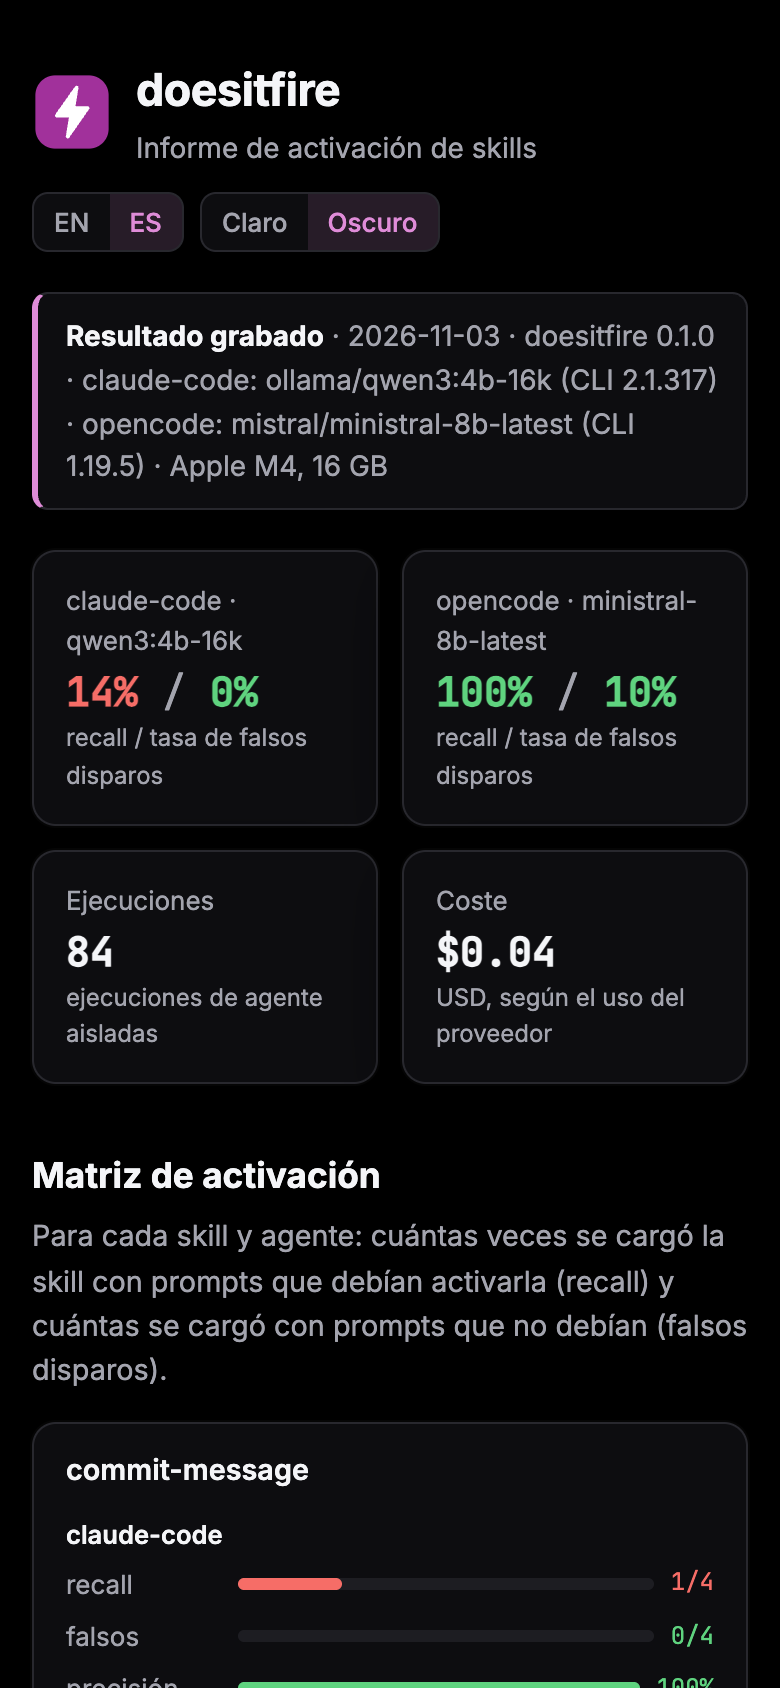
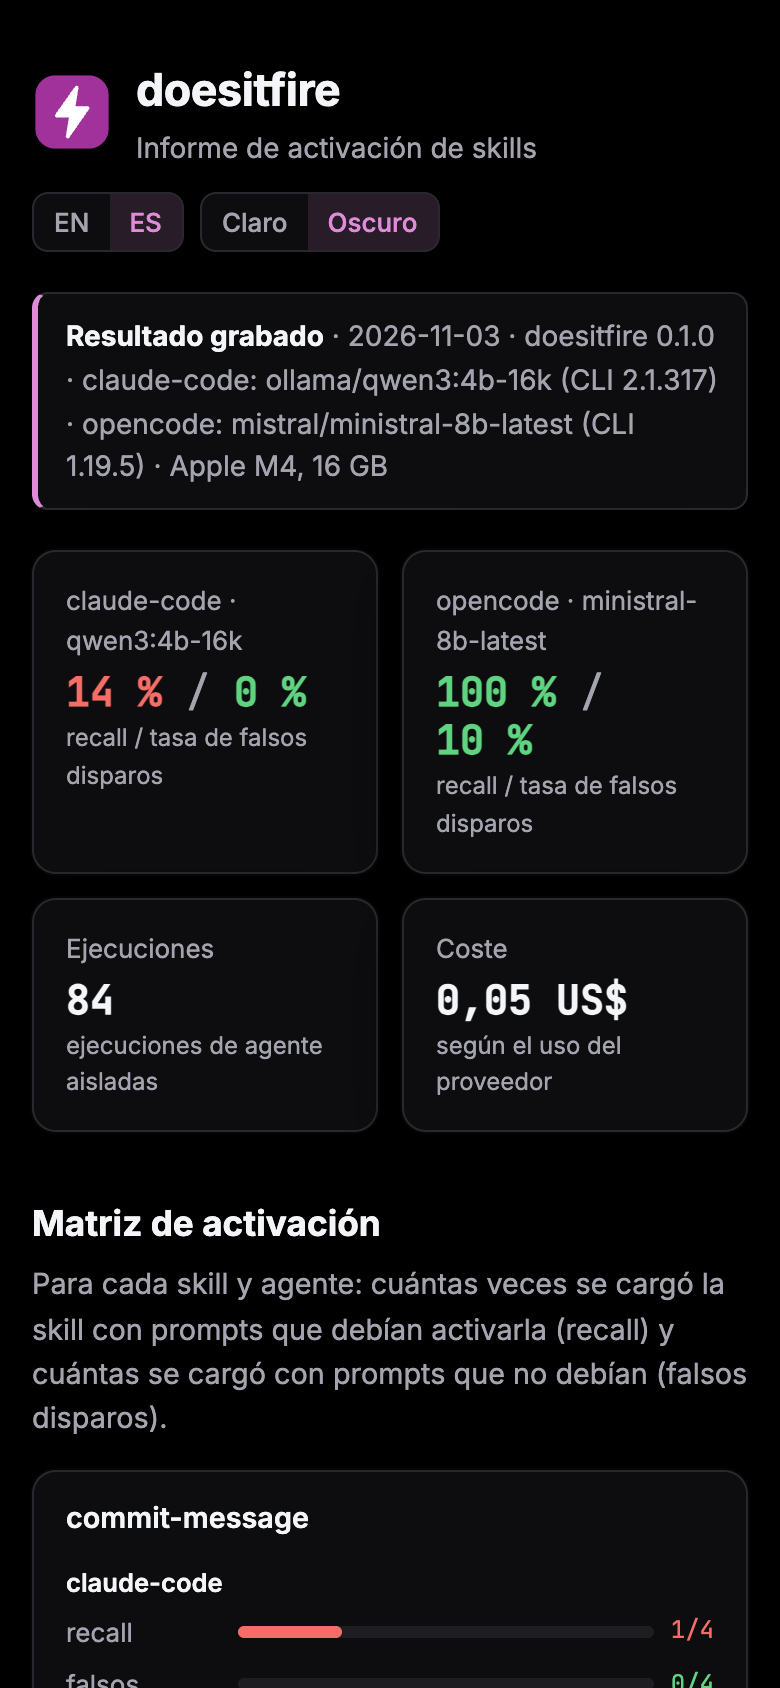
release: 0.1.1 locale-aware number formatting, verified Mistral price and recomputed demo cost

diff --git a/src/doesitfire/templates/report.html b/src/doesitfire/templates/report.html
@@ -162,7 +162,7 @@ footer { margin-top: 40px; color: var(--muted); font-size: .8rem; }
       kFalse: "False fires", kFalseHint: "should-not prompts that loaded it",
       kPrecision: "Precision", kPrecisionHint: "loads that were wanted",
       kAgentHint: "recall / false-fire rate", kRuns: "Runs", kRunsHint: "sandboxed agent runs",
-      kCost: "Cost", kCostHint: "USD, from provider usage",
+      kCost: "Cost", kCostHint: "from provider usage",
       matrixTitle: "Activation matrix",
       matrixLead: "For each skill and agent: how often the skill loaded on prompts that should trigger it (recall), and how often it loaded on prompts that should not (false fires).",
       skill: "Skill", recall: "recall", falsef: "false fires", precision: "precision", errors: "runs with errors",
@@ -179,7 +179,9 @@ footer { margin-top: 40px; color: var(--muted); font-size: .8rem; }
         "A small local model does not behave like a frontier model. These numbers describe this run, with these models; run <code>doesitfire run</code> with the models you actually use."
       ],
       footer: "Generated by doesitfire {version}. Started {start}, {dur} s.",
-      blocked: "Egress attempts blocked by the sandbox proxy: {n}."
+      blocked: "Egress attempts blocked by the sandbox proxy: {n}.",
+      price: "Cost for {agent} ({model}): {input} per million input tokens and {output} per million output tokens, checked on {checked}.",
+      source: "Source"
     },
     es: {
       subtitle: "Informe de activación de skills", light: "Claro", dark: "Oscuro",
@@ -188,7 +190,7 @@ footer { margin-top: 40px; color: var(--muted); font-size: .8rem; }
       kFalse: "Falsos disparos", kFalseHint: "prompts que no debían y la activaron",
       kPrecision: "Precisión", kPrecisionHint: "activaciones que tocaban",
       kAgentHint: "recall / tasa de falsos disparos", kRuns: "Ejecuciones", kRunsHint: "ejecuciones de agente aisladas",
-      kCost: "Coste", kCostHint: "USD, según el uso del proveedor",
+      kCost: "Coste", kCostHint: "según el uso del proveedor",
       matrixTitle: "Matriz de activación",
       matrixLead: "Para cada skill y agente: cuántas veces se cargó la skill con prompts que debían activarla (recall) y cuántas se cargó con prompts que no debían (falsos disparos).",
       skill: "Skill", recall: "recall", falsef: "falsos", precision: "precisión", errors: "ejecuciones con error",
@@ -205,7 +207,9 @@ footer { margin-top: 40px; color: var(--muted); font-size: .8rem; }
         "Un modelo local pequeño no se comporta como un modelo de frontera. Estas cifras describen esta ejecución con estos modelos; lanza <code>doesitfire run</code> con los modelos que uses de verdad."
       ],
       footer: "Generado por doesitfire {version}. Inicio {start}, {dur} s.",
-      blocked: "Intentos de salida bloqueados por el proxy del sandbox: {n}."
+      blocked: "Intentos de salida bloqueados por el proxy del sandbox: {n}.",
+      price: "Coste de {agent} ({model}): {input} por millón de tokens de entrada y {output} por millón de salida, comprobado el {checked}.",
+      source: "Fuente"
     }
   };
   var lang = "en";
@@ -213,7 +217,10 @@ footer { margin-top: 40px; color: var(--muted); font-size: .8rem; }
   if (lang !== "en" && lang !== "es") lang = (navigator.language || "en").toLowerCase().indexOf("es") === 0 ? "es" : "en";
 
   function esc(s) { return String(s == null ? "" : s).replace(/[&<>"']/g, function (c) { return {"&": "&amp;", "<": "&lt;", ">": "&gt;", '"': "&quot;", "'": "&#39;"}[c]; }); }
-  function pct(v) { return v == null ? "n/a" : Math.round(v * 100) + "%"; }
+  function loc() { return lang === "es" ? "es-ES" : "en-US"; }
+  function pct(v) { return v == null ? "n/a" : new Intl.NumberFormat(loc(), {style: "percent", maximumFractionDigits: 0}).format(v); }
+  function num(v) { return new Intl.NumberFormat(loc()).format(v); }
+  function usd(v) { return new Intl.NumberFormat(loc(), {style: "currency", currency: "USD", minimumFractionDigits: 2, maximumFractionDigits: v > 0 && v < 0.01 ? 4 : 2}).format(v); }
   function fmt(s, o) { return s.replace(/\{(\w+)\}/g, function (_, k) { return o[k] == null ? "" : o[k]; }); }
   function rcls(v) { return v == null ? "na" : v >= 0.8 ? "ok" : v >= 0.5 ? "warn" : "err"; }
   function fcls(v) { return v == null ? "na" : v <= 0.1 ? "ok" : v <= 0.3 ? "warn" : "err"; }
@@ -242,8 +249,8 @@ footer { margin-top: 40px; color: var(--muted); font-size: .8rem; }
         ' <span class="sep">/</span> <span class="c-' + fcls(c.false_fire_rate) + '">' + esc(pct(c.false_fire_rate)) + '</span></div>' +
         '<div class="hint">' + esc(t.kAgentHint) + '</div></div>';
     });
-    cards.push('<div class="kpi"><div class="label">' + esc(t.kRuns) + '</div><div class="value">' + D.runs + '</div><div class="hint">' + esc(t.kRunsHint) + '</div></div>');
-    cards.push('<div class="kpi"><div class="label">' + esc(t.kCost) + '</div><div class="value">$' + (M.cost_usd || 0).toFixed(2) + '</div><div class="hint">' + esc(t.kCostHint) + '</div></div>');
+    cards.push('<div class="kpi"><div class="label">' + esc(t.kRuns) + '</div><div class="value">' + esc(num(D.runs)) + '</div><div class="hint">' + esc(t.kRunsHint) + '</div></div>');
+    cards.push('<div class="kpi"><div class="label">' + esc(t.kCost) + '</div><div class="value">' + esc(usd(M.cost_usd || 0)) + '</div><div class="hint">' + esc(t.kCostHint) + '</div></div>');
     var kp = document.getElementById("kpis");
     kp.style.gridTemplateColumns = "repeat(" + Math.min(cards.length, 5) + ", minmax(0, 1fr))";
     kp.innerHTML = cards.join("");
@@ -298,9 +305,13 @@ footer { margin-top: 40px; color: var(--muted); font-size: .8rem; }
 
     var reps = M.agents.map(function (a) { return a.name + " " + (a.repeats || M.repeats); }).join(", ");
     var notes = t.notes.map(function (n) { return "<p>" + fmt(n, {turns: M.max_turns, repeats: esc(reps)}) + "</p>"; });
+    M.agents.forEach(function (a) {
+      if (a.price) notes.push("<p>" + esc(fmt(t.price, {agent: a.name, model: a.model, input: usd(a.price.input), output: usd(a.price.output), checked: a.price.checked || ""})) +
+        (a.price.source ? ' <a href="' + esc(a.price.source) + '">' + esc(t.source) + "</a>" : "") + "</p>");
+    });
     if (M.blocked_egress && M.blocked_egress.length) notes.push("<p>" + esc(fmt(t.blocked, {n: M.blocked_egress.length})) + "</p>");
     document.getElementById("notes").innerHTML = notes.join("");
-    document.getElementById("footer").innerHTML = esc(fmt(t.footer, {version: M.version, start: (M.started_at || "").replace("T", " ").slice(0, 16), dur: Math.round(M.duration_s || 0)})) +
+    document.getElementById("footer").innerHTML = esc(fmt(t.footer, {version: M.version, start: (M.started_at || "").replace("T", " ").slice(0, 16), dur: num(Math.round(M.duration_s || 0))})) +
       ' · <a href="https://github.com/diegoperezg7/doesitfire">github.com/diegoperezg7/doesitfire</a>';
   }
 

diff --git a/src/doesitfire/runner.py b/src/doesitfire/runner.py
@@ -146,6 +146,11 @@ def run_matrix(
                 "provider": a.provider.name,
                 "model": a.cfg.model,
                 "experimental": a.cfg.name in EXPERIMENTAL,
+                "price": (
+                    {"input": a.cfg.price_input, "output": a.cfg.price_output}
+                    if a.cfg.price_input is not None
+                    else None
+                ),
             }
             for a in agents
         ],

diff --git a/src/doesitfire/__init__.py b/src/doesitfire/__init__.py
@@ -1,3 +1,3 @@
 """doesitfire: test whether agent skills (SKILL.md) actually activate in real coding agents."""
 
-__version__ = "0.1.0"
+__version__ = "0.1.1"

diff --git a/CHANGELOG.md b/CHANGELOG.md
@@ -4,6 +4,22 @@ All notable changes to this project are documented here. The format follows
 [Keep a Changelog](https://keepachangelog.com/en/1.1.0/) and the project uses
 [Semantic Versioning](https://semver.org/).
 
+## [0.1.1] - 2026-11-04
+
+### Changed
+- HTML report: numbers, percentages and money are formatted with `Intl.NumberFormat` for the active language
+  (EN `$0.05`, ES `0,05 US$`).
+- The report lists the price used for each paid agent, with its source and the date it was checked.
+- `results.json` records the configured price per agent.
+
+### Fixed
+- Recorded demo cost. v0.1.0 used an unverified price of 0.10 USD per million tokens for Mistral
+  `ministral-8b-latest`. The verified price is 0.15 USD per million input and output tokens
+  (`ministral-8b-latest` is `ministral-8b-2512`; [docs.mistral.ai](https://docs.mistral.ai/models/ministral-3-8b-25-12),
+  checked 2026-11-04). Recomputed from the recorded token usage without re-running: 361,490 tokens, **0.054 USD**
+  (v0.1.0 said 0.036 USD). The activation results do not change.
+- `examples/doesitfire.mistral.yaml` uses the verified price.
+
 ## [0.1.0] - 2026-11-03
 
 ### Added
@@ -22,4 +38,5 @@ All notable changes to this project are documented here. The format follows
 - `doesitfire demo` shows a recorded real run of three example skills.
 - Composite GitHub Action and an example workflow.
 
+[0.1.1]: https://github.com/diegoperezg7/doesitfire/releases/tag/v0.1.1
 [0.1.0]: https://github.com/diegoperezg7/doesitfire/releases/tag/v0.1.0

diff --git a/README.es.md b/README.es.md
@@ -40,7 +40,7 @@ La demo no necesita API key, ni Docker, ni modelo. Muestra una ejecución real *
 skills de ejemplo de [`examples/`](examples):
 
 ```bash
-uvx --from git+https://github.com/diegoperezg7/doesitfire@v0.1.0 doesitfire demo
+uvx --from git+https://github.com/diegoperezg7/doesitfire@v0.1.1 doesitfire demo
 ```
 
 o desde un clon:
@@ -93,9 +93,9 @@ Necesitas Docker y Ollama (gratis, local) o una API key.
 
 ```bash
 cd tu-repo                        # con skills en .claude/skills, .agents/skills, skills/, ...
-uvx --from git+https://github.com/diegoperezg7/doesitfire@v0.1.0 doesitfire init
+uvx --from git+https://github.com/diegoperezg7/doesitfire@v0.1.1 doesitfire init
 # edita doesitfire.yaml: 4 o más prompts que deben cargar cada skill y 4 o más casi-aciertos que no
-uvx --from git+https://github.com/diegoperezg7/doesitfire@v0.1.0 doesitfire run
+uvx --from git+https://github.com/diegoperezg7/doesitfire@v0.1.1 doesitfire run
 ```
 
 `run` construye la imagen de los agentes la primera vez (unos 1,9 GB, unos minutos), imprime la matriz y escribe
@@ -209,7 +209,7 @@ cumple; es lo que quieres en CI. Si se alcanza el presupuesto sale con código 3
 Solo en runners Linux (los agentes corren en Docker; los runners alojados de macOS no traen Docker):
 
 ```yaml
-- uses: diegoperezg7/doesitfire@v0.1.0
+- uses: diegoperezg7/doesitfire@v0.1.1
   with:
     config: doesitfire.yaml
     max-cost: "1.0"

diff --git a/README.md b/README.md
@@ -40,7 +40,7 @@ The demo needs no API key, no Docker and no model. It shows a **recorded** real 
 example skills in [`examples/`](examples):
 
 ```bash
-uvx --from git+https://github.com/diegoperezg7/doesitfire@v0.1.0 doesitfire demo
+uvx --from git+https://github.com/diegoperezg7/doesitfire@v0.1.1 doesitfire demo
 ```
 
 or from a clone:
@@ -92,9 +92,9 @@ You need Docker and either Ollama (free, local) or an API key.
 
 ```bash
 cd your-repo                      # with skills in .claude/skills, .agents/skills, skills/, ...
-uvx --from git+https://github.com/diegoperezg7/doesitfire@v0.1.0 doesitfire init
+uvx --from git+https://github.com/diegoperezg7/doesitfire@v0.1.1 doesitfire init
 # edit doesitfire.yaml: 4+ prompts that should load each skill, 4+ near misses that should not
-uvx --from git+https://github.com/diegoperezg7/doesitfire@v0.1.0 doesitfire run
+uvx --from git+https://github.com/diegoperezg7/doesitfire@v0.1.1 doesitfire run
 ```
 
 `run` builds the agent image on first use (about 1.9 GB, a few minutes), then prints the matrix and writes
@@ -208,7 +208,7 @@ what you want in CI. Budget stops exit 3 and keep the partial results.
 Linux runners only (the agents run in Docker; hosted macOS runners have no Docker):
 
 ```yaml
-- uses: diegoperezg7/doesitfire@v0.1.0
+- uses: diegoperezg7/doesitfire@v0.1.1
   with:
     config: doesitfire.yaml
     max-cost: "1.0"
